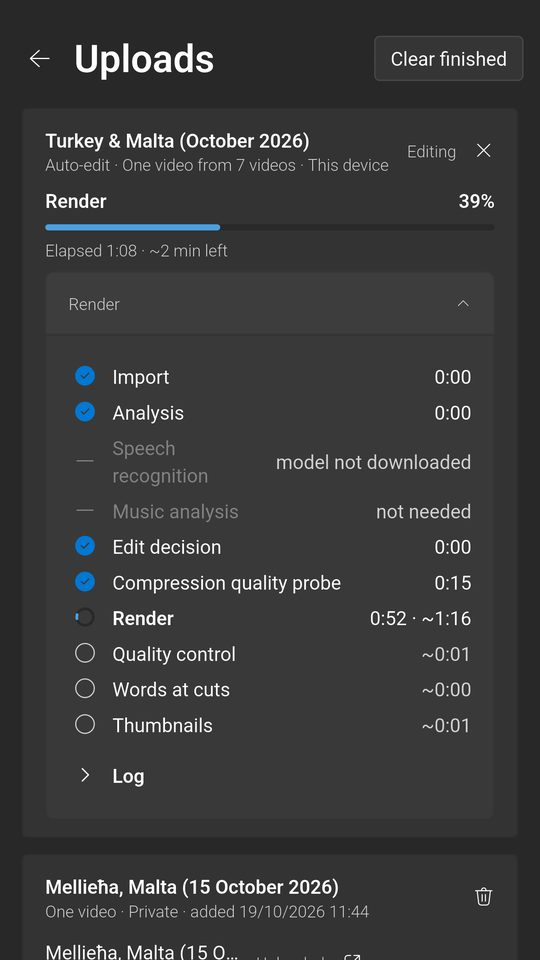
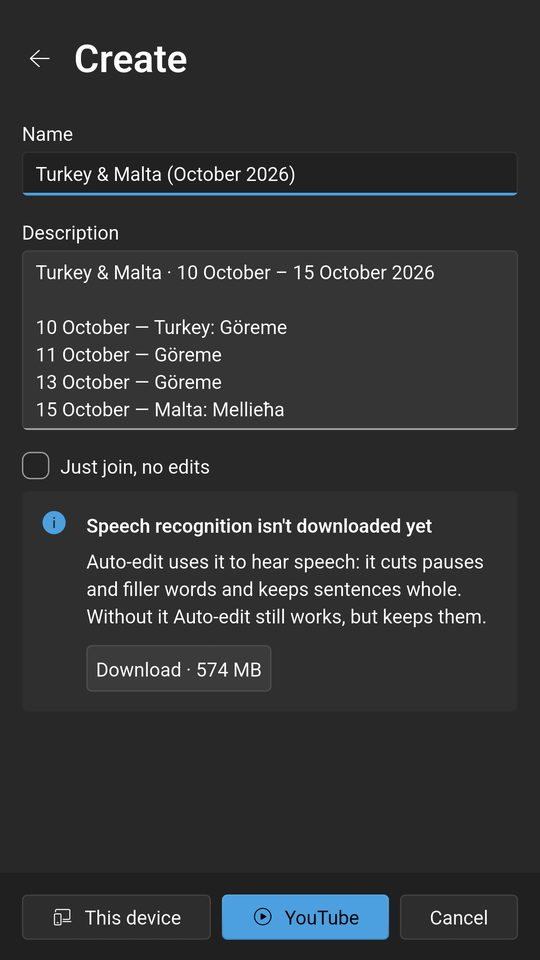
Cam2You: the Create screenshot, of 0.2.10, with its buttons' whole labels

diff --git a/cam2you/index.html b/cam2you/index.html
@@ -281,7 +281,8 @@
   <figure><img src="/cam2you/screens/2.jpg" width="540" height="960" loading="lazy" alt="A title card, But it all started like this, in the preview"><figcaption>Title cards in the preview, before anything is made.</figcaption></figure>
   <figure><img src="/cam2you/screens/3.jpg" width="540" height="960" loading="lazy" alt="The edit plan: a prompt for the music, the teaser and the title cards"><figcaption>The edit planned: its cards, the teaser and a prompt for its music.</figcaption></figure>
   <figure><img src="/cam2you/screens/4.jpg" width="540" height="960" loading="lazy" alt="The teaser being trimmed, its video chosen in the list"><figcaption>The teaser: any part of any of the videos.</figcaption></figure>
-  <figure><img src="/cam2you/screens/5.jpg" width="540" height="960" loading="lazy" alt="Uploads: Auto-edit making one video from seven, step by step"><figcaption>Auto-edit makes the film on the phone.</figcaption></figure>
+  <figure><img src="/cam2you/screens/5.jpg" width="540" height="960" loading="lazy" alt="Create: a name and a description proposed from where and when the videos were filmed"><figcaption>A name and description from where and when you filmed.</figcaption></figure>
+  <figure><img src="/cam2you/screens/6.jpg" width="540" height="960" loading="lazy" alt="Uploads: Auto-edit making one video from seven, step by step"><figcaption>Auto-edit makes the film on the phone.</figcaption></figure>
 </div>
 
 <h2>What it does</h2>
